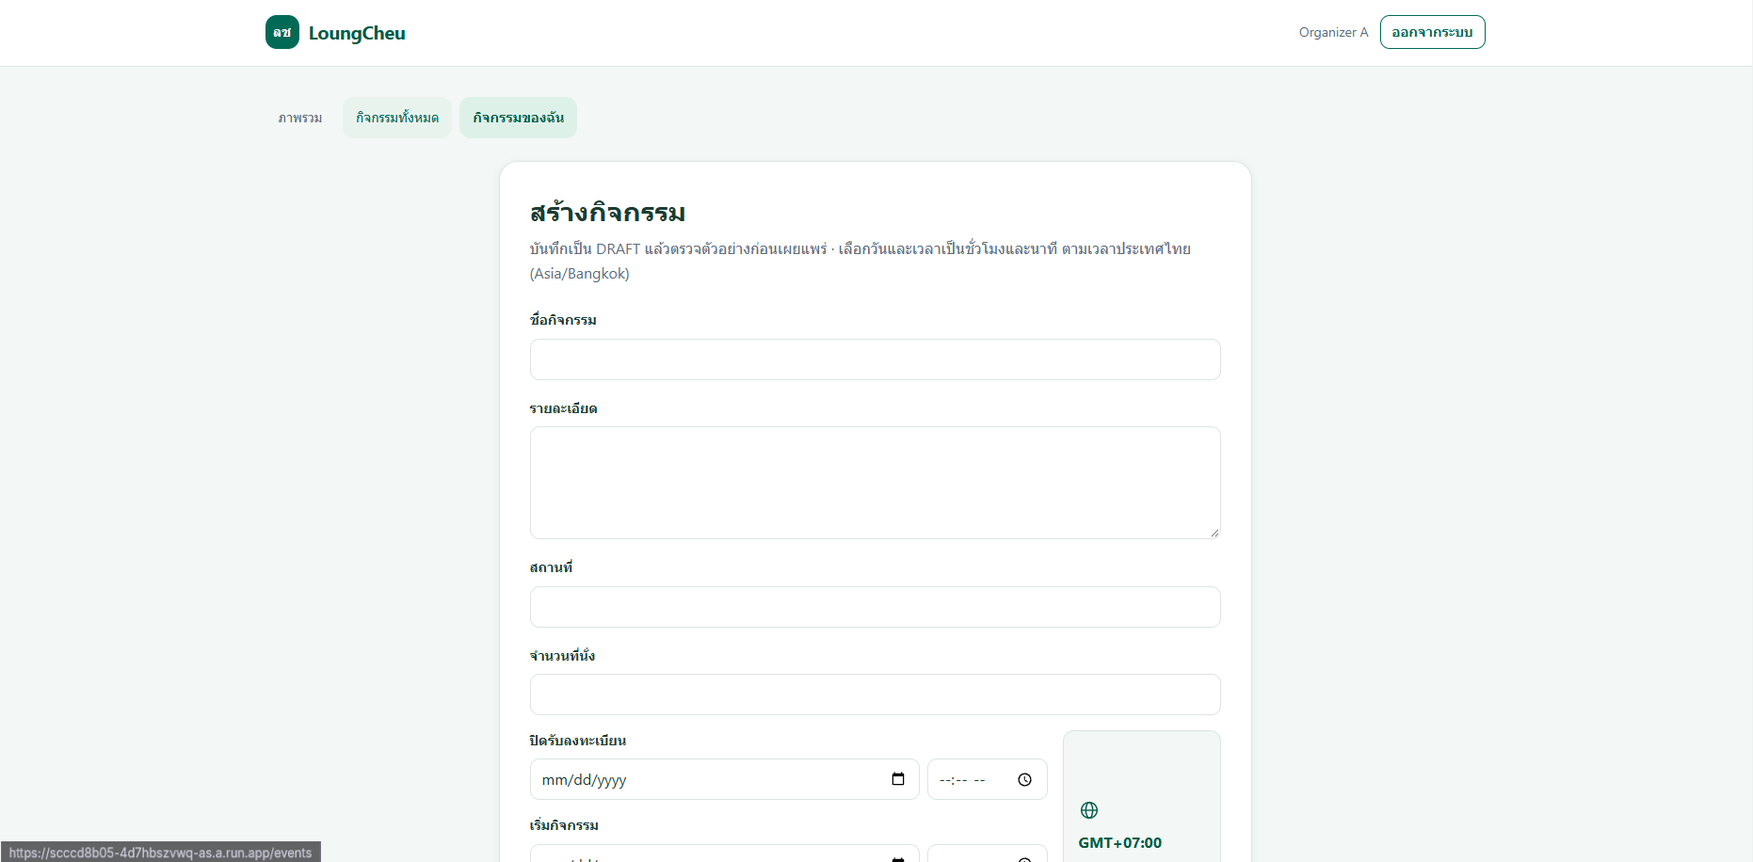
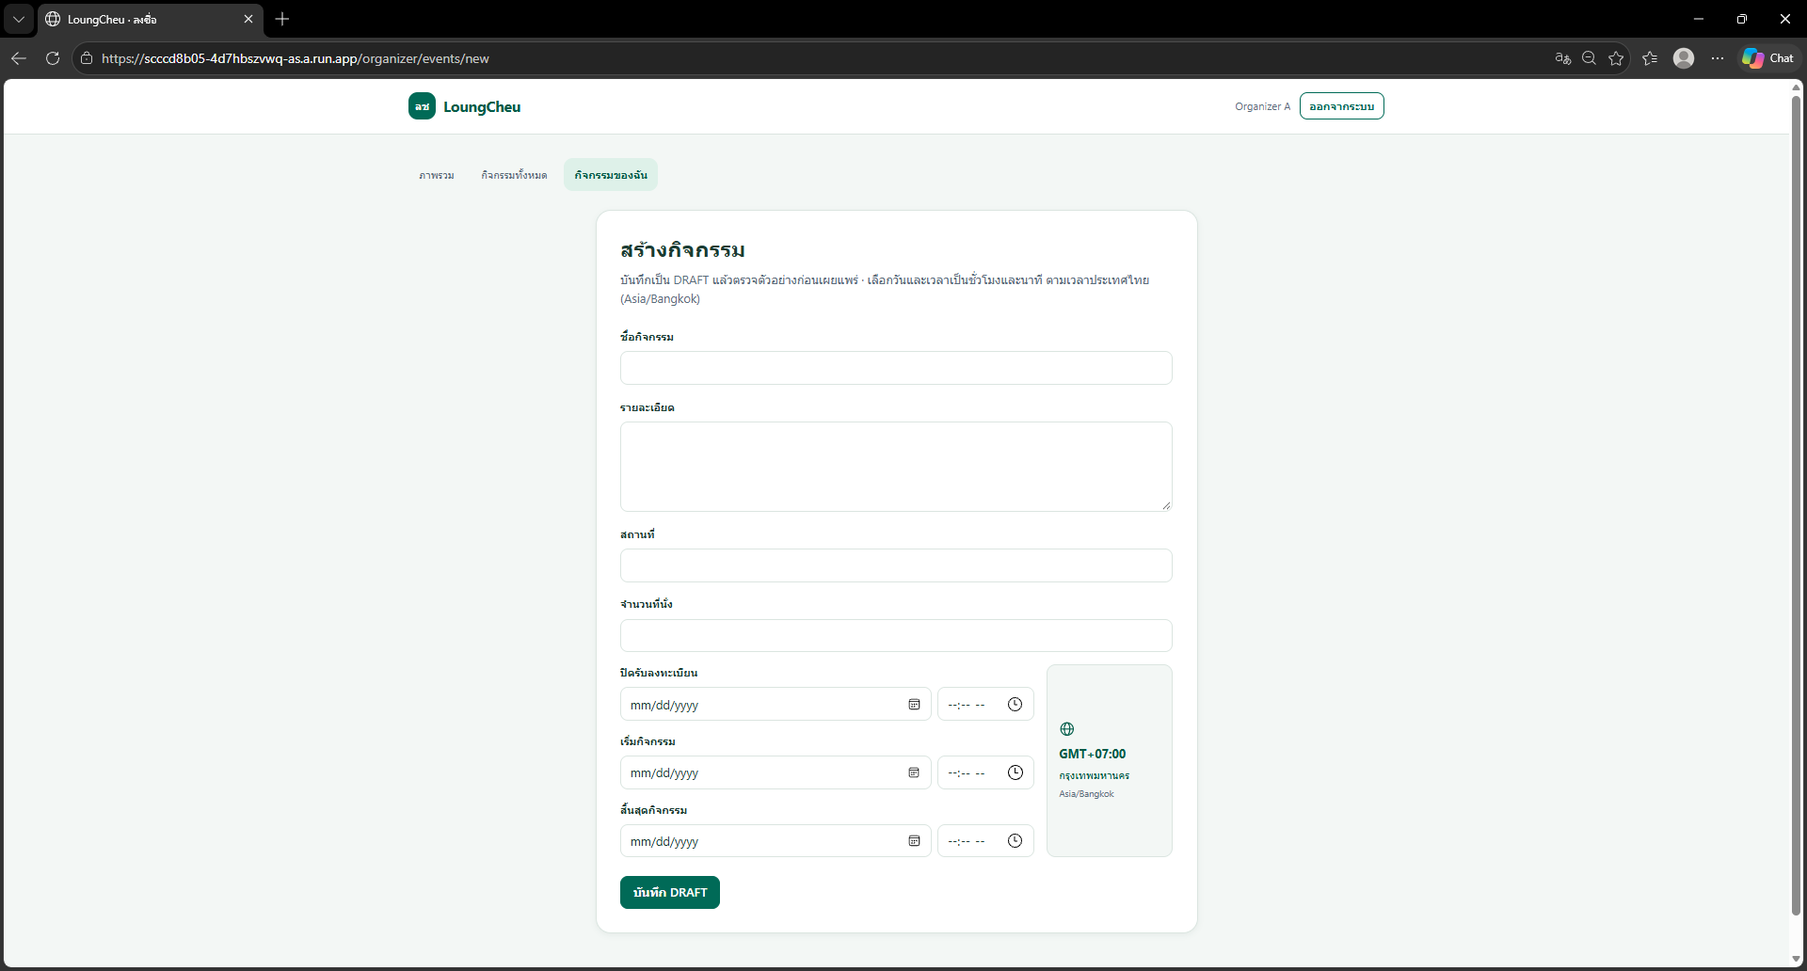
docs(lab5): complete deployment evidence and screenshot checklist (#17)

diff --git a/docs/labs/lab-05/first-deployment.md b/docs/labs/lab-05/first-deployment.md
@@ -8,25 +8,25 @@ The first manual deployment is reachable at [https://scccd8b05-4d7hbszvwq-as.a.r
 
 | Check | Actual evidence / remaining limitation |
 | --- | --- |
-| Portal Resources ready time | [Portal screenshot](evidence/issue17-live-20261121/screenshots/14-team-resources.png) shows Resources ready, 6/6 complete and completion time 14:20:02 Thailand time; the date is not visible. Do not Activate again to collect a date. |
+| Portal Resources ready time | [Portal screenshot](evidence/issue17-live-20261121/screenshots/13-team-resources.png) shows Resources ready, 6/6 complete and completion time 14:20:02 Thailand time; the date is not visible. Do not Activate again to collect a date. |
 | Portal repository review | Operator screenshot reviewed main `87c77af07bfbb7f2b4e0d9ada4b69cd79a5c6b5f`; timestamp not captured. The Starter Kit layout warning is not a deployment failure. |
 | Merge sequence | [PR #24](https://github.com/jetanin/LoungCheu/pull/24) merged into `lab5-staging` at 2026-11-20 23:18:57 +07; merge `5a6b3b5445c47fb56d2a97c1a007c314003a1070`. [PR #25](https://github.com/jetanin/LoungCheu/pull/25) merged into `main` at 2026-11-21 13:42:42 +07; merge `87c77af07bfbb7f2b4e0d9ada4b69cd79a5c6b5f`. |
 | Release identification | Public `/api/ready` independently returned HTTP 200, `status=ready`, `db=connected`, `version=87c77af07bfbb7f2b4e0d9ada4b69cd79a5c6b5f`; see [raw response](evidence/issue17-live-20261121/readiness.json). This confirms the app's reported APP_VERSION, not an independently verified image/source binding. |
 | Migration + seed | Operator reported successful execution [`scccd8b05-migrate-cbp4k`](https://console.cloud.google.com/run/jobs/executions/details/asia-southeast1/scccd8b05-migrate-cbp4k?project=670075229477), 1/1 complete. Command: `npm run db:migrate && npm run db:seed`. |
-| Completion time | Operator supplied `2026-11-21T12:05:47.291764Z` (19:05:47.291764 +07); the [Cloud Shell screenshot](evidence/issue17-live-20261121/screenshots/13-cloud-run.png) confirms this completion time belongs to the execution above. This is not the portal-ready or service deployment timestamp. |
+| Completion time | Operator supplied `2026-11-21T12:05:47.291764Z` (19:05:47.291764 +07); the [Cloud Shell screenshot](evidence/issue17-live-20261121/screenshots/15-cloud-run-cli.png) confirms this completion time belongs to the execution above. This is not the portal-ready or service deployment timestamp. |
 | Session secret | Operator's command returned `Created version [1] of the secret [scccd8b05-app-secret-1]`. Intended runtime reference: `scccd8b05-app-secret-1:1`; no secret value retained. |
 | Smoke | Operator output: PASS `/api/ready`, `/api/health`, `/login`, `/api/events`, `/api/not-a-real-route`; command `python3 deploy/smoke_test.py "$SERVICE_URL" --expected-commit "$SHA"`. Exact shell variable values were not printed in that transcript. |
 | Manual business journey | Operator confirmed organizer login/create/publish PASS; participant view/register PASS; inactive account login rejected. Earlier login problem was reported; operator later confirmed normal use. Resolution details were not supplied; [screenshots now show the journeys](evidence/issue17-live-20261121/README.md#c-04-screenshot-gallery). |
-| Revision / immutable image | Operator described `scccd8b05-00002-72x`; spec image and status.imageDigest agree on `sha256:d5a94a9d6a6f1cbd9ce93789d1f0bcf4af15062f56ca9ca523a1dd80c7a0f5b1`; see [revision output](evidence/issue17-live-20261121/revision.yaml). [Cloud Shell screenshot](evidence/issue17-live-20261121/screenshots/13-cloud-run.png) confirms this is latestReadyRevisionName and receives 100% traffic. |
-| C-04 screenshots | [14 supplied screenshots and captions](evidence/issue17-live-20261121/README.md#c-04-screenshot-gallery): login, organizer create/publish, participant registration, inactive rejection, service CLI and portal status. App captures omit the address bar; URL-visible capture and direct Issue attachments still need completion. |
+| Revision / immutable image | Operator described `scccd8b05-00002-72x`; spec image and status.imageDigest agree on `sha256:d5a94a9d6a6f1cbd9ce93789d1f0bcf4af15062f56ca9ca523a1dd80c7a0f5b1`; see [revision output](evidence/issue17-live-20261121/revision.yaml). [Cloud Shell screenshot](evidence/issue17-live-20261121/screenshots/15-cloud-run-cli.png) confirms this is latestReadyRevisionName and receives 100% traffic. |
+| C-04 screenshots | [16 supplied screenshots and captions](evidence/issue17-live-20261121/README.md#c-04-screenshot-gallery): URL-visible login, organizer create/publish and participant registration for Test2, inactive rejection, Cloud Run Console/CLI and portal status. Refreshed screenshots inspected on 22 November 2026; release-tag/index/manifest mapping is now captured in image 16; the operator confirmed posting the evidence comment to Issue #17 on 22 November 2026; the exact comment permalink was not supplied or independently checked. No independently attested build provenance is claimed. |
 
-The real procedure used individual Cloud Shell commands: Docker build/push with a commit tag, update the existing migration job with portal DB/demo-password secret references, execute with `--wait`, add session-secret version 1, update the existing service with DB/session references, port 3000, production/origin/version settings, move traffic to latest, and smoke-test. The operator has supplied revision/digest output but not a complete command transcript or traffic mapping yet; do not present the offline receipt as this deployment's receipt.
+The real procedure used individual Cloud Shell commands: Docker build/push with a commit tag, update the existing migration job with portal DB/demo-password secret references, execute with `--wait`, add session-secret version 1, update the existing service with DB/session references, port 3000, production/origin/version settings, move traffic to latest, and smoke-test. The operator has supplied revision/digest output but not a complete build/push command transcript or source-to-image provenance yet; do not present the offline receipt as this deployment's receipt.
 
 See the [live evidence index and C-04 checklist](evidence/issue17-live-20261121/README.md) and [Issue #17](https://github.com/jetanin/LoungCheu/issues/17). Issue #17 remains open while the evidence fields/screenshots are incomplete. #18 merge-gate/WIF proof, #19 automation/rollback and #20 persistence/report work are outside this change.
 
 ## Portal resource status and main repository review
 
-These are separate activities. The team resources have supported a successful live migration and reachable app. The portal's Resources ready display/time is still not captured; see the live record above rather than inferring a portal timestamp.
+These are separate activities. The team resources have supported a successful live migration and reachable app. The portal Resources ready screenshot records completion at 14:20:02 Thailand time but no date; see the live record above without inferring the calendar date.
 
 1. **Resource status, independent of the Git merge:** sign in to the course portal with the registered Gmail and confirm team `scccd8b05`. Check Activate & status first. If activation has never been requested, Activate once using the Lab 5 route when available, or Resources only while repository changes are reviewed. If provisioning is already in progress, wait and return later. If Resources ready, do not Activate again. Record the actual status/time from the portal in the evidence.
 2. **Code review and merge:** PR #24 and release PR #25 have merged with passing matching-head CI; see the live record and [CI evidence](ci.md). For future changes, use teammate review and passing CI through `lab5-staging` then `main`. Deploy automation is parked, so this merge does not run deployment.
@@ -118,9 +118,9 @@ In a separate reviewed #19 change, after manual first deployment and #18 prerequ
 
 ## Finish Issue #17
 
-These follow-up tasks may happen after the code PR/release PR is merged, but must happen before closing #17. Check/Activate the actual team resources in the portal, run first deployment manually from reviewed main, and after a successful real deployment retain the source SHA, image digest, revision, service URL, sanitized command output and smoke result. The operator has now reported passing login/business/rejection checks; capture their screenshots and exact release metadata. For reproducibility, manually sign in on the public URL using LoungCheu usernames such as `organizer.a` and `participant.a`, create/publish/register an event and show a rule/access rejection with URL-visible screenshots. Obtain the portal demo-secret credentials only through the course's private channel/TA if needed; do not use the kit's example email login or print the password. That is the remaining C-04 evidence. CI/merge-gate C-02, repeatable release C-06 and GCP persistence C-05 stay separate.
+These follow-up tasks may happen after the code PR/release PR is merged, but must happen before closing #17. Check/Activate the actual team resources in the portal, run first deployment manually from reviewed main, and after a successful real deployment retain the source SHA, image digest, revision, service URL, sanitized command output and smoke result. The operator has now reported passing login/business/rejection checks; their refreshed screenshots and exact revision/digest/traffic are now recorded in the gallery. Retain build/source evidence and attach the set directly to the Issue. For reproducibility, manually sign in on the public URL using LoungCheu usernames such as `organizer.a` and `participant.a`, create/publish/register an event and show a rule/access rejection with URL-visible screenshots. Obtain the portal demo-secret credentials only through the course's private channel/TA if needed; do not use the kit's example email login or print the password. That is the remaining C-04 evidence. CI/merge-gate C-02, repeatable release C-06 and GCP persistence C-05 stay separate.
 
-Resources ready, a preview, or a successful mocked test does not close #17. Live readiness/smoke and operator-reported journeys are now recorded above; screenshots and exact revision/image evidence are still outstanding. Keep repository and service available through grading.
+Resources ready, a preview, or a successful mocked test does not close #17. Live readiness/smoke and operator-reported journeys are now recorded above; URL-visible screenshots, revision/digest and traffic evidence are retained; tag/index/manifest mapping is now captured; the operator confirmed posting the evidence comment to Issue #17 on 22 November 2026; the exact comment permalink was not supplied or independently checked. No independently attested source/build provenance is claimed. Keep repository and service available through grading.
 
 ## Evidence
 
@@ -128,4 +128,8 @@ See [shared-course offline evidence](evidence/issue17-shared-cloud/README.md) fo
 
 ## C-04 screenshots
 
-See the [screenshot gallery with 14 images and captions](evidence/issue17-live-20261121/README.md#c-04-screenshot-gallery). The gallery identifies remaining URL-visible capture and evidence follow-up without claiming Issue #17 is closed.
+See the [screenshot gallery with 16 images and captions](evidence/issue17-live-20261121/README.md#c-04-screenshot-gallery). The refreshed app images show the public URL and the gallery includes Cloud Run Console/CLI. Release-tag/index/manifest mapping is documented in image 16. The operator confirmed the direct Issue evidence comment on 22 November 2026; review/merge and final Issue status remain follow-up items; this does not claim Issue #17 is closed.
+
+## Release tag and image identity
+
+[Image 16](evidence/issue17-live-20261121/screenshots/16-image-tag-digest.png) verifies tag `87c77af07bfbb7f2b4e0d9ada4b69cd79a5c6b5f` → OCI index `sha256:e4054b99bf312ef871bd08e4c660599961da94638397d0d90954ee8a01ea5397` → linux/amd64 manifest `sha256:d5a94a9d6a6f1cbd9ce93789d1f0bcf4af15062f56ca9ca523a1dd80c7a0f5b1`. This child digest matches revision `scccd8b05-00002-72x` in [revision.yaml](evidence/issue17-live-20261121/revision.yaml); [service output](evidence/issue17-live-20261121/screenshots/15-cloud-run-cli.png) records 100% traffic to that revision. This is tag-to-deployed-image identity evidence, not an independently attested build from source. The operator confirmed posting the direct Issue #17 evidence comment on 22 November 2026. The exact comment permalink was not supplied or independently checked; review/merge and final Issue/project status are not marked complete by this edit.

diff --git a/docs/labs/lab-05/deployment.md b/docs/labs/lab-05/deployment.md
@@ -179,28 +179,28 @@ The first manual deployment is reachable at [https://scccd8b05-4d7hbszvwq-as.a.r
 
 | Check | Actual evidence / remaining limitation |
 | --- | --- |
-| Portal Resources ready time | [Portal screenshot](evidence/issue17-live-20261121/screenshots/14-team-resources.png) shows Resources ready, 6/6 complete and completion time 14:20:02 Thailand time; the date is not visible. Do not Activate again to collect a date. |
+| Portal Resources ready time | [Portal screenshot](evidence/issue17-live-20261121/screenshots/13-team-resources.png) shows Resources ready, 6/6 complete and completion time 14:20:02 Thailand time; the date is not visible. Do not Activate again to collect a date. |
 | Portal repository review | Operator screenshot reviewed main `87c77af07bfbb7f2b4e0d9ada4b69cd79a5c6b5f`; timestamp not captured. The Starter Kit layout warning is not a deployment failure. |
 | Merge sequence | [PR #24](https://github.com/jetanin/LoungCheu/pull/24) merged into `lab5-staging` at 2026-11-20 23:18:57 +07; merge `5a6b3b5445c47fb56d2a97c1a007c314003a1070`. [PR #25](https://github.com/jetanin/LoungCheu/pull/25) merged into `main` at 2026-11-21 13:42:42 +07; merge `87c77af07bfbb7f2b4e0d9ada4b69cd79a5c6b5f`. |
 | Release identification | Public `/api/ready` independently returned HTTP 200, `status=ready`, `db=connected`, `version=87c77af07bfbb7f2b4e0d9ada4b69cd79a5c6b5f`; see [raw response](evidence/issue17-live-20261121/readiness.json). This confirms the app's reported APP_VERSION, not an independently verified image/source binding. |
 | Migration + seed | Operator reported successful execution [`scccd8b05-migrate-cbp4k`](https://console.cloud.google.com/run/jobs/executions/details/asia-southeast1/scccd8b05-migrate-cbp4k?project=670075229477), 1/1 complete. Command: `npm run db:migrate && npm run db:seed`. |
-| Completion time | Operator supplied `2026-11-21T12:05:47.291764Z` (19:05:47.291764 +07); the [Cloud Shell screenshot](evidence/issue17-live-20261121/screenshots/13-cloud-run.png) confirms this completion time belongs to the execution above. This is not the portal-ready or service deployment timestamp. |
+| Completion time | Operator supplied `2026-11-21T12:05:47.291764Z` (19:05:47.291764 +07); the [Cloud Shell screenshot](evidence/issue17-live-20261121/screenshots/15-cloud-run-cli.png) confirms this completion time belongs to the execution above. This is not the portal-ready or service deployment timestamp. |
 | Session secret | Operator's command returned `Created version [1] of the secret [scccd8b05-app-secret-1]`. Intended runtime reference: `scccd8b05-app-secret-1:1`; no secret value retained. |
 | Smoke | Operator output: PASS `/api/ready`, `/api/health`, `/login`, `/api/events`, `/api/not-a-real-route`; command `python3 deploy/smoke_test.py "$SERVICE_URL" --expected-commit "$SHA"`. Exact shell variable values were not printed in that transcript. |
 | Manual business journey | Operator confirmed organizer login/create/publish PASS; participant view/register PASS; inactive account login rejected. Earlier login problem was reported; operator later confirmed normal use. Resolution details were not supplied; [screenshots now show the journeys](evidence/issue17-live-20261121/README.md#c-04-screenshot-gallery). |
-| Revision / immutable image | Operator described `scccd8b05-00002-72x`; spec image and status.imageDigest agree on `sha256:d5a94a9d6a6f1cbd9ce93789d1f0bcf4af15062f56ca9ca523a1dd80c7a0f5b1`; see [revision output](evidence/issue17-live-20261121/revision.yaml). [Cloud Shell screenshot](evidence/issue17-live-20261121/screenshots/13-cloud-run.png) confirms this is latestReadyRevisionName and receives 100% traffic. |
-| C-04 screenshots | [14 supplied screenshots and captions](evidence/issue17-live-20261121/README.md#c-04-screenshot-gallery): login, organizer create/publish, participant registration, inactive rejection, service CLI and portal status. App captures omit the address bar; URL-visible capture and direct Issue attachments still need completion. |
+| Revision / immutable image | Operator described `scccd8b05-00002-72x`; spec image and status.imageDigest agree on `sha256:d5a94a9d6a6f1cbd9ce93789d1f0bcf4af15062f56ca9ca523a1dd80c7a0f5b1`; see [revision output](evidence/issue17-live-20261121/revision.yaml). [Cloud Shell screenshot](evidence/issue17-live-20261121/screenshots/15-cloud-run-cli.png) confirms this is latestReadyRevisionName and receives 100% traffic. |
+| C-04 screenshots | [16 supplied screenshots and captions](evidence/issue17-live-20261121/README.md#c-04-screenshot-gallery): URL-visible login, organizer create/publish and participant registration for Test2, inactive rejection, Cloud Run Console/CLI and portal status. Refreshed screenshots inspected on 22 November 2026; release-tag/index/manifest mapping is now captured in image 16; the operator confirmed posting the evidence comment to Issue #17 on 22 November 2026; the exact comment permalink was not supplied or independently checked. No independently attested build provenance is claimed. |
 
-The real procedure used individual Cloud Shell commands: Docker build/push with a commit tag, update the existing migration job with portal DB/demo-password secret references, execute with `--wait`, add session-secret version 1, update the existing service with DB/session references, port 3000, production/origin/version settings, move traffic to latest, and smoke-test. The operator has supplied revision/digest output but not a complete command transcript or traffic mapping yet; do not present the offline receipt as this deployment's receipt.
+The real procedure used individual Cloud Shell commands: Docker build/push with a commit tag, update the existing migration job with portal DB/demo-password secret references, execute with `--wait`, add session-secret version 1, update the existing service with DB/session references, port 3000, production/origin/version settings, move traffic to latest, and smoke-test. The operator has supplied revision/digest output but not a complete build/push command transcript or source-to-image provenance yet; do not present the offline receipt as this deployment's receipt.
 
 See the [live evidence index and C-04 checklist](evidence/issue17-live-20261121/README.md) and [Issue #17](https://github.com/jetanin/LoungCheu/issues/17). Issue #17 remains open while the evidence fields/screenshots are incomplete. #18 merge-gate/WIF proof, #19 automation/rollback and #20 persistence/report work are outside this change.
 
 ## Deployment history and remaining Issue #17 evidence
 
 - The automatic [run 44882261079](https://github.com/jetanin/LoungCheu/actions/runs/44882261079) on `49aa64543a3c5a3f6f4f46b37a6e6a59b65e05a4` **failed**. Earlier migration execution `scccd8b05-migrate-8qszm` also failed. Neither is successful first-deployment evidence; the underlying error was not supplied.
-- `21ef6543c2c495e773ab89dd6f002dbe45c10286` subsequently changed the workflow to manual triggering. Later, at the operator's request, both workflow edits were removed from main history with a guarded force update back to `87c77af07bfbb7f2b4e0d9ada4b69cd79a5c6b5f`; backup branch `codex/backup-main-before-remove-deploy` retains them. Current main's deploy draft has no push trigger and disabled jobs. A failure or skipped run does not establish a successful deployment.
+- `21ef6543c2c495e773ab89dd6f002dbe45c10286` subsequently changed the workflow to manual triggering. Later, at the operator's request, both workflow edits were removed from main history with a guarded force update back to `87c77af07bfbb7f2b4e0d9ada4b69cd79a5c6b5f`; the historical failed run above remains the event reference. The current documentation/evidence branch is [doc/17-first-deployment-evidence](https://github.com/jetanin/LoungCheu/tree/doc/17-first-deployment-evidence); this is not claimed to preserve those historical workflow commits. Current main's deploy draft has no push trigger and disabled jobs. A failure or skipped run does not establish a successful deployment.
 - PR #24 → `lab5-staging` and PR #25 → `main` are complete with passing CI; see [exact heads/runs](ci.md#pr-24-and-release-pr-25-verified-merge-and-ci).
-- Manual release used the course project and existing team resources; no additional SQL/IAM provisioning is claimed. Runtime DB connection passed readiness. Portal-ready time, service traffic/latestReadyRevisionName and Cloud Run/resource screenshots still need capture; operator-supplied revision/digest is recorded above.
+- Manual release used the course project and existing team resources; no additional SQL/IAM provisioning is claimed. Runtime DB connection passed readiness. Portal-ready time, traffic/latestReadyRevisionName and Cloud Run Console/resource screenshots are now captured; only the portal completion time-of-day is visible, without a date. Source-to-image evidence remains to be attached.
 - Before closing [Issue #17](https://github.com/jetanin/LoungCheu/issues/17), attach the public URL and sanitized C-04 screenshots to the Issue itself, confirm source SHA against revision image metadata, and link the live evidence. Do not overwrite `issue17-shared-cloud`: its 28 tests are offline historical evidence.
 - Automated release/rollback (#19), required-check proof (#18), and restart/redeploy persistence plus final LEB2 PDF (#20) are separate tasks. This branch changes documentation/evidence only.
 
@@ -234,4 +234,8 @@ Browser E2E รอบ follow-up: sandbox run เริ่ม server ไม่ไ
 
 ## C-04 screenshots
 
-See the [screenshot gallery with 14 images and captions](evidence/issue17-live-20261121/README.md#c-04-screenshot-gallery). The gallery identifies remaining URL-visible capture and evidence follow-up without claiming Issue #17 is closed.
+See the [screenshot gallery with 16 images and captions](evidence/issue17-live-20261121/README.md#c-04-screenshot-gallery). The refreshed app images show the public URL and the gallery includes Cloud Run Console/CLI. Release-tag/index/manifest mapping is documented in image 16. The operator confirmed the direct Issue evidence comment on 22 November 2026; review/merge and final Issue status remain follow-up items; this does not claim Issue #17 is closed.
+
+## Release tag and image identity
+
+[Image 16](evidence/issue17-live-20261121/screenshots/16-image-tag-digest.png) verifies tag `87c77af07bfbb7f2b4e0d9ada4b69cd79a5c6b5f` → OCI index `sha256:e4054b99bf312ef871bd08e4c660599961da94638397d0d90954ee8a01ea5397` → linux/amd64 manifest `sha256:d5a94a9d6a6f1cbd9ce93789d1f0bcf4af15062f56ca9ca523a1dd80c7a0f5b1`. This child digest matches revision `scccd8b05-00002-72x` in [revision.yaml](evidence/issue17-live-20261121/revision.yaml); [service output](evidence/issue17-live-20261121/screenshots/15-cloud-run-cli.png) records 100% traffic to that revision. This is tag-to-deployed-image identity evidence, not an independently attested build from source. The operator confirmed posting the direct Issue #17 evidence comment on 22 November 2026. The exact comment permalink was not supplied or independently checked; review/merge and final Issue/project status are not marked complete by this edit.
